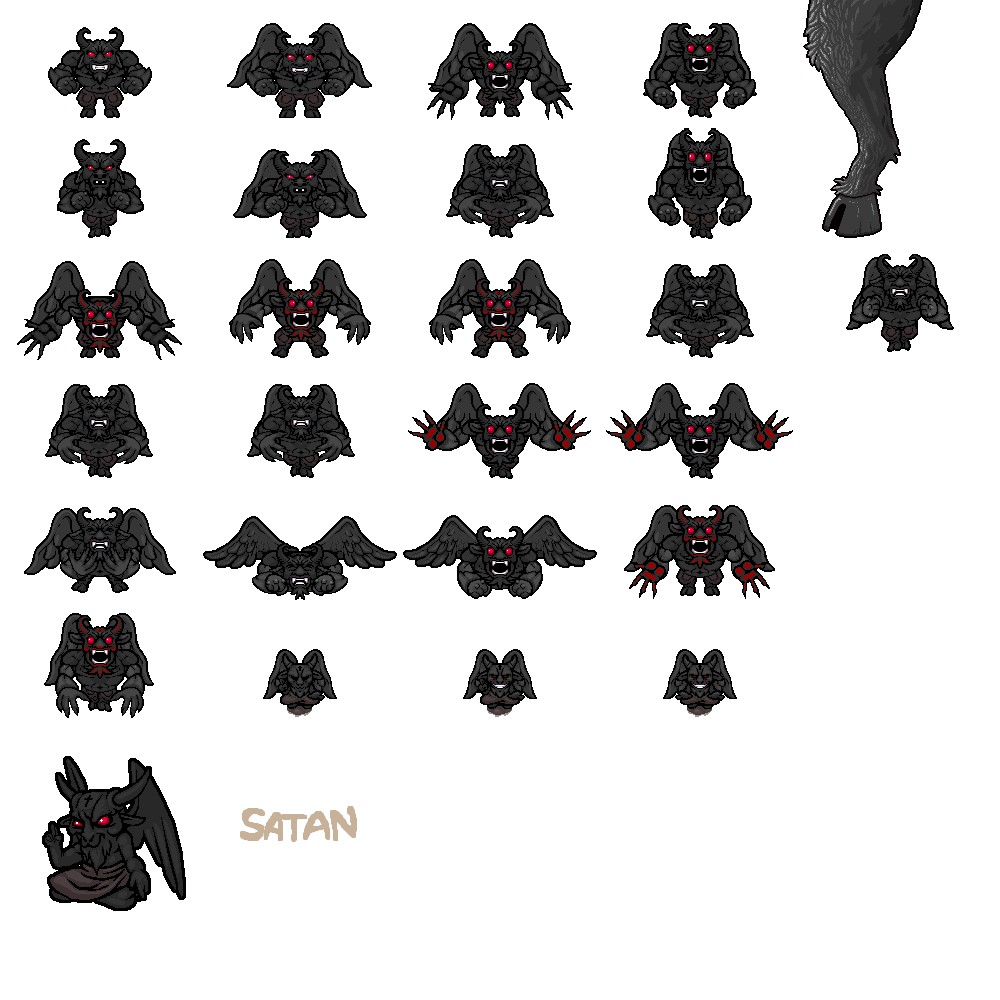
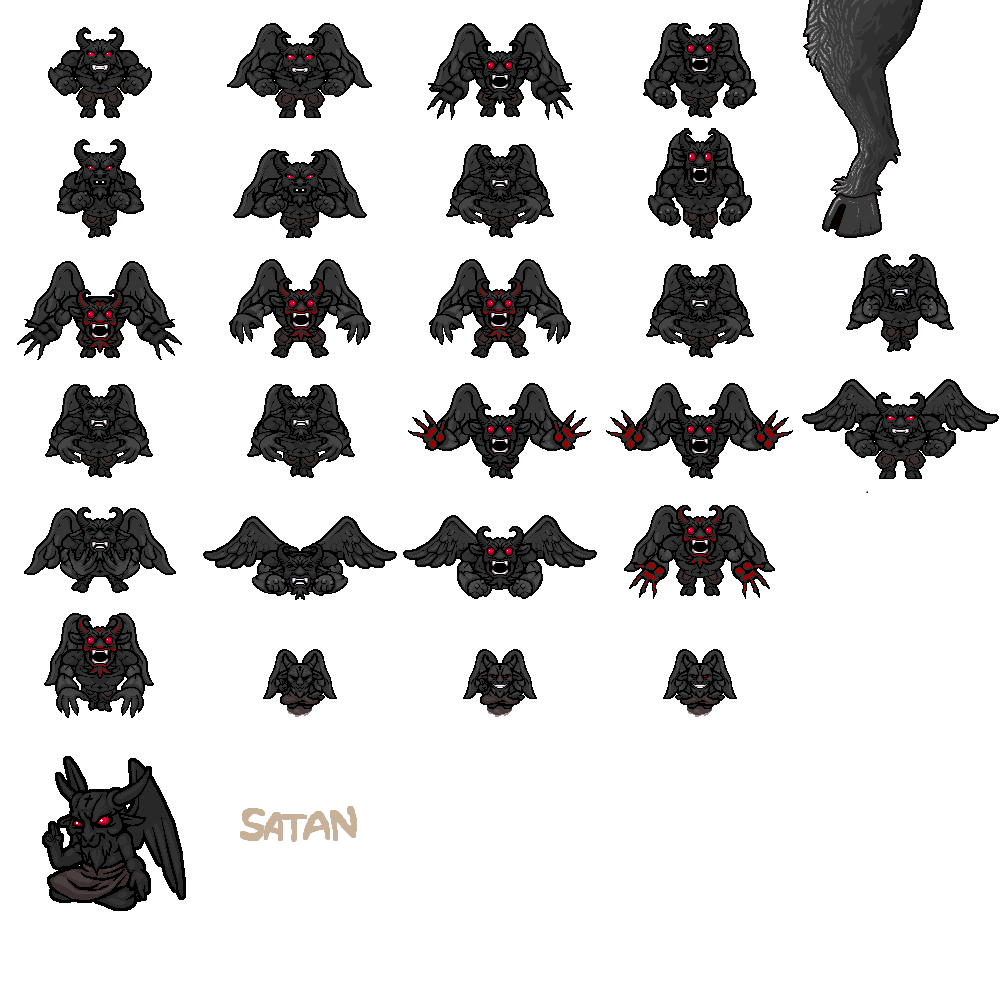
satan boss done

Changed region(s): [[0.806, 0.372, 1.0, 0.496]]

diff --git a/src/entities/mobs/boss/satan/satan.py b/src/entities/mobs/boss/satan/satan.py
@@ -1,5 +1,6 @@
 from cmath import cos, sin
 import math
+import random
 from config import FPS
 from entities.bullet import Bullet
 from entities.laser import Laser
@@ -36,21 +37,38 @@ class Satan(Enemy):
         # BOSS STAGES
         self.stage = 0
 
+        # START
+        self.boss_figth_start_active = True
+        self.start_time = 3 * FPS
+        self.game.not_voulnerable.add(self)
+
         # HANDS BULLETS
-        self.bullets_from_hands_active = True
+        self.bullets_from_hands_active = False
         self.bullets_from_hands_period = int(1 * FPS)
         self.bullets_from_hands_time = self.bullets_from_hands_period
 
         # LASER BREATH
         self.laser = None
-        self.laser_breath_active = True
+        self.laser_breath_active = False
         self.laser_breath_period = int(1 * FPS)
         self.laser_breath_time = self.laser_breath_period
 
         # MOUTH ATTACK
-        self.mouth_attack_active = True
+        self.mouth_attack_active = False
         self.mouth_attack_period = int(1 * FPS)
         self.mouth_attack_time = self.mouth_attack_period
+        self.mouth_attack_amount = 0
+
+        #FLYING
+        self.flying_active = False
+        self.flying_period = int(1.5 * FPS)
+        self.flying_time = self.mouth_attack_period
+        self.first_short_fly = True
+        self.fly_multiplier = 1
+        self.fly_speed = 4
+
+        
+
 
     def draw_additional_images(self, screen):
         self.health_bar.draw(screen)
@@ -65,13 +83,21 @@ class Satan(Enemy):
         self.animate()
 
     def perform_boss_stage(self):
-        if self.bullets_from_hands_active:
+        if self.boss_figth_start_active:
+            self.start_time -= 1
+            if self.start_time <= 0:
+                self.boss_figth_start_active = False
+                self.bullets_from_hands_active = True
+                self.game.not_voulnerable.remove(self)
+
+        elif self.bullets_from_hands_active:
             self.bullets_from_hands_time -= 1
             if self.bullets_from_hands_time == self.bullets_from_hands_period // 2:
                 self.bullets_from_hands_attack()
             elif self.bullets_from_hands_time <= 0:
                 self.bullets_from_hands_time = self.bullets_from_hands_period
                 self.bullets_from_hands_active = False
+                self.next_move_type("bullets_from_hands")
                 
         elif self.laser_breath_active:
             self.laser_breath_time -= 1
@@ -83,19 +109,64 @@ class Satan(Enemy):
             elif self.laser_breath_time <= 0:
                 self.laser_breath_time = self.laser_breath_period
                 self.laser_breath_active = False
+                self.next_move_type("laser_breath")
         
         elif self.mouth_attack_active:
             self.mouth_attack_time -= 1
-            if self.mouth_attack_time == int(self.mouth_attack_period * 0.75):
+            if self.mouth_attack_time == int(self.mouth_attack_period * 0.55):
                 self.mouth_attack()
             elif self.mouth_attack_time <= 0:
                 self.mouth_attack_time = self.mouth_attack_period
-                #self.mouth_attack_active = False
+                if self.mouth_attack_amount == 3:
+                    self.mouth_attack_active = False
+                    self.mouth_attack_amount = random.randint(-2, 0)
+                    #self.next_move_type("mouth_attack")
+                    self.flying_active = True
+
+        elif self.flying_active:
+            self.fly()
+            
+
+    def fly(self):
+        self.flying_time -= 1
+        speed = self.fly_speed * self.fly_multiplier
+        if self.first_short_fly:
+            speed /= 2
+        self.rect.x += speed
+        if self.flying_time <= 0:
+            self.fly_multiplier *= -1
+            self.flying_time = self.flying_period
+            self.first_short_fly = False
+            self.flying_active = False
+            self.next_move_type("flying")
+
+
+    def next_move_type(self, to_exclude:str):
+        moves = {
+            "bullets_from_hands": 0,
+            "laser_breath": 1,
+            "mouth_attack": 2,
+            "flying": 3
+                 }
+        
+        to_choose_from = moves.keys()
+        to_choose_from = list(to_choose_from)
+        to_choose_from.remove(to_exclude)
+        move = moves[random.choice(to_choose_from)] 
+        if move == 0:
+            self.bullets_from_hands_active = True
+        elif move == 1:
+            self.laser_breath_active = True
+        elif move == 2:
+            self.mouth_attack_active = True
+        elif move == 3:
+            self.flying_active = True
 
     def mouth_attack(self):
-        x, y = self.rect.centerx, self.rect.centery
-        for i in range(3, 10, 3):
+        x, y = self.rect.centerx, self.rect.centery + int(self.MOB_HEIGHT * 0.3)
+        for i in range(3, 14, 3):
             Bullet(self.game, x, y, Directions.PLAYER, 10 + i, False, 1, 0.5)
+        self.mouth_attack_amount += 1
 
     def laser_breath_attack(self):
         x, y = self.rect.centerx, self.rect.centery + int(self.MOB_HEIGHT * 0.12)

diff --git a/src/entities/mobs/boss/satan/satan_animation.py b/src/entities/mobs/boss/satan/satan_animation.py
@@ -10,7 +10,7 @@ class SatanAnimiation():
         self.images = []
         self.prepare_images()
 
-        self.boss.image = self.images[0]
+        self.boss.image = self.images[21]
         self.boss.mask = pygame.mask.from_surface(self.boss.image)
 
         self.time = self.time_cd = 10
@@ -27,14 +27,30 @@ class SatanAnimiation():
         self.y_change = 1
 
     def animate(self):
-        if self.boss.bullets_from_hands_active:
+        if self.boss.boss_figth_start_active:
+            self.waking_up_animation()
+        elif self.boss.bullets_from_hands_active:
             self.shaking_animation()
             self.shaking_animation_y()
             self.animate_bullets_from_hands()
         elif self.boss.laser_breath_active:
             self.shaking_animation(True)
             self.animate_laser_breath()
-   
+        elif self.boss.mouth_attack_active:
+            self.shaking_animation()
+            self.animate_mouth_attack()
+        elif self.boss.flying_active:
+            self.flying_animation()
+            self.shaking_animation_y()
+    def waking_up_animation(self):
+        frames = [21, 22, 23, 1]
+        time_stages = [0.99, 0.2, 0.12, 0.06]
+        time_stages = [int(time * self.boss.bullets_from_hands_period) for time in time_stages]
+        if self.boss.start_time in time_stages:
+            self.boss.image = self.images[frames[self.frame_index]]
+            self.frame_index += 1
+            self.frame_index %= len(time_stages)
+            
     def animate_bullets_from_hands(self):        
         frames = [1, 13, 14, 15, 1]
         time_stages = [0.99, 0.8, 0.49, 0.4, 0.12]
@@ -53,6 +69,15 @@ class SatanAnimiation():
             self.frame_index += 1
             self.frame_index %= len(time_stages)
 
+    def animate_mouth_attack(self):
+        frames = [1, 2, 6, 8, 0, 1]
+        time_stages = [0.99, 0.92, 0.83, 0.55, 0.25, 0.05]
+        time_stages = [int(time * self.boss.mouth_attack_period) for time in time_stages]
+        if self.boss.mouth_attack_time in time_stages:
+            self.boss.image = self.images[frames[self.frame_index]]
+            self.frame_index += 1
+            self.frame_index %= len(time_stages)
+
     def prepare_images(self):
         size = self.boss.MOB_WIDTH, self.boss.MOB_HEIGHT
         for y in range(6):
@@ -61,6 +86,9 @@ class SatanAnimiation():
                 self.images.append(pygame.transform.scale(image, size))
 
         image = self.img.subsurface(pygame.Rect(4 * 200, 2 * 120, 200, 120))
+        self.images.append(pygame.transform.scale(image, size))
+
+        image = self.img.subsurface(pygame.Rect(4 * 200, 3 * 120, 200, 120))
         self.images.append(pygame.transform.scale(image, size))
 
         image = self.img.subsurface(pygame.Rect(4 * 200,  0, 200, 240))
@@ -82,3 +110,14 @@ class SatanAnimiation():
             self.boss.rect.centery += 2 * self.change
             self.y_change *= -1
             self.shake_time_y_left = 9
+
+    def flying_animation(self):
+        frames = [1, 25]
+        time_stages = [0.9, 0.8, 0.7, 0.6, 0.5, 0.4, 0.3, 0.2, 0.1]
+        time_stages = [int(time * self.boss.flying_period) for time in time_stages]
+        if self.boss.flying_time in time_stages:
+            self.boss.image = self.images[frames[self.frame_index]]
+            self.frame_index += 1
+            self.frame_index %= len(frames)
+            if self.boss.flying_time == time_stages[len(time_stages) - 1]:
+                self.frame_index = 0
